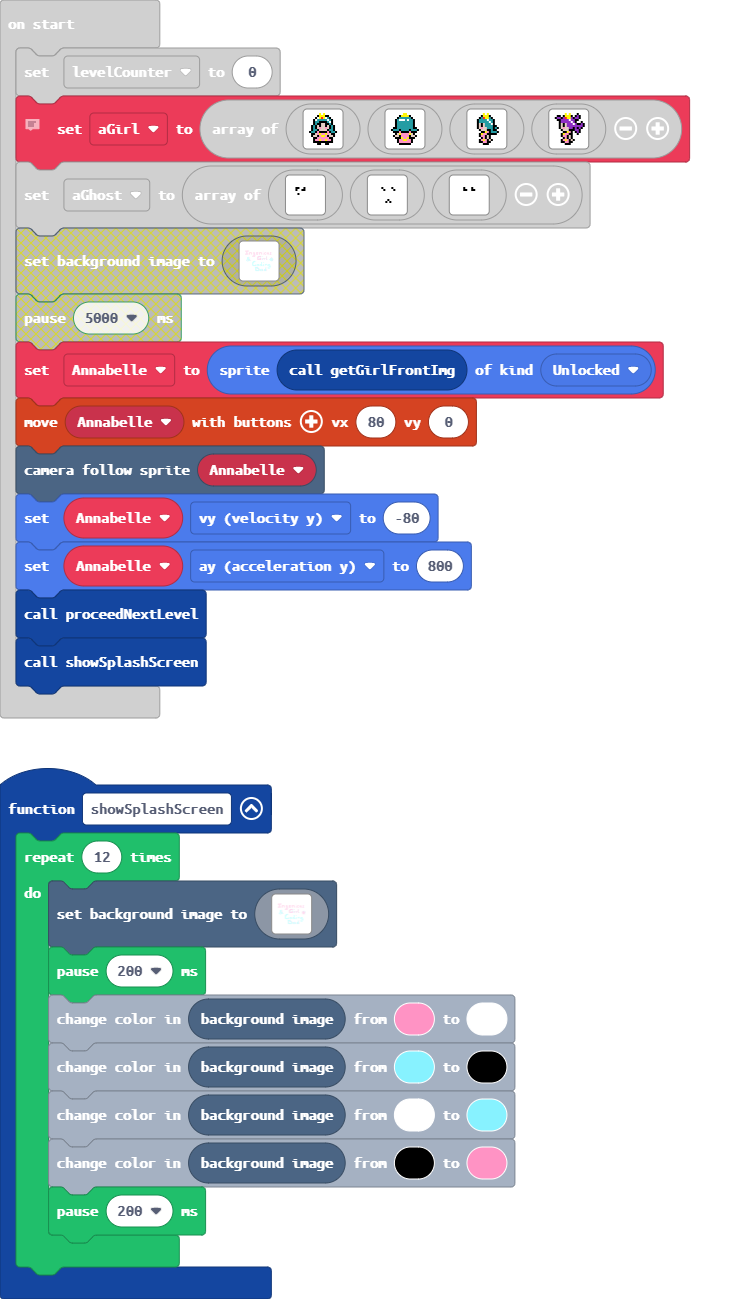
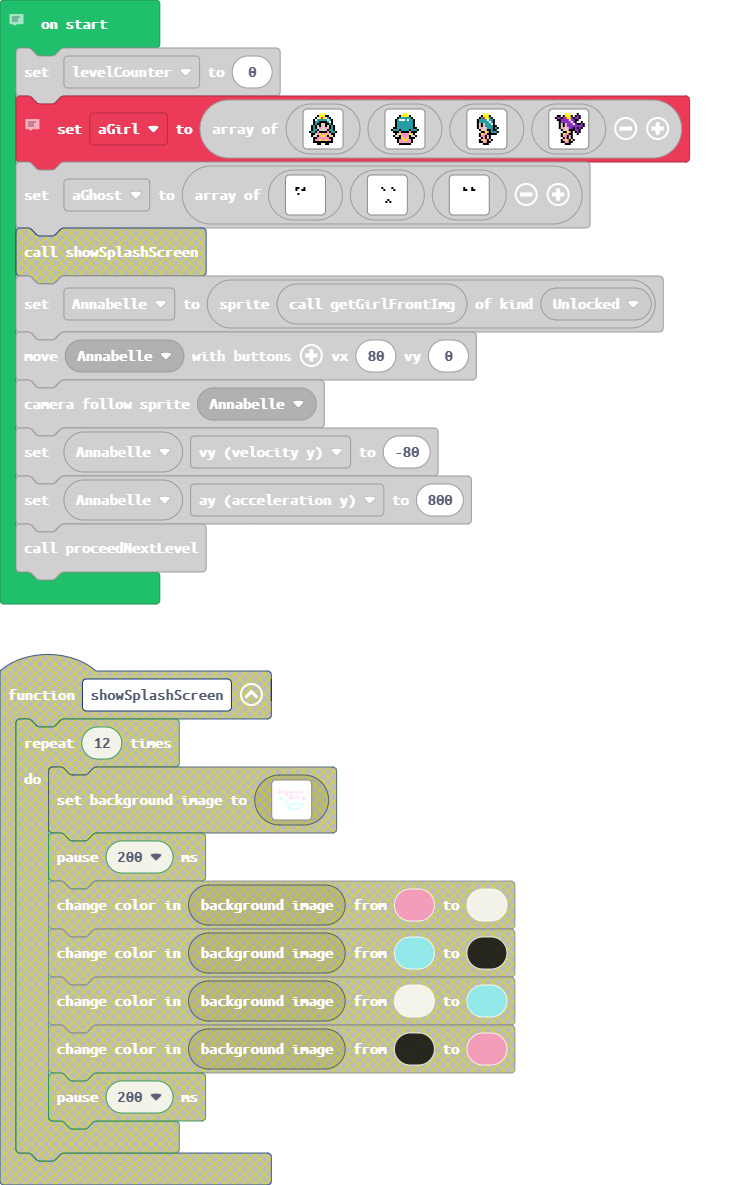
Added splash screen via extension (https://makecode.com/_0zXPeFRcMPzd)

diff --git a/main.ts b/main.ts
@@ -324,138 +324,6 @@ controller.left.onEvent(ControllerButtonEvent.Released, function () {
         onLeftRightReleased()
     }
 })
-function showSplashScreen () {
-    for (let index = 0; index < 12; index++) {
-        scene.setBackgroundImage(img`
-            ................................................................................................................................................................
-            ................................................................................................................................................................
-            ................................................................................................................................................................
-            ................................................................................................................................................................
-            ................................................................................................................................................................
-            ................................................................................................................................................................
-            ................................................................................................................................................................
-            .......................33333....................................................................................................................................
-            ...........33333333333333933....................................................................................................................................
-            ...........33333333333333393.......................................................................333..........................................................
-            ...........33333333333333333.......................................................................333..........................................................
-            ...........33333333333333333.......................................................................333..........................................................
-            ...........33333333333333333....................................................................................................................................
-            .................33333..........................................................................................................................................
-            .................33333..........................................................................................................................................
-            .................33333..........................................................................................................................................
-            .................33333.........333....3333.........................333333333.....333....3333............................................33333...................
-            .................33333.........333..3333333........3333333........33333333333....333..3333333...............33333333.....333...333.....3333333..................
-            .................33333.........3333333333333......333333333.......33333333333....3333333333333.....333.....3333333333....333...333....33333333..................
-            .................33333.........333333333.333......3333333333......3333...3333....333333333.333.....333....33333333333....333...333....3333...3..................
-            .................33333.........3333333...333......3333..3333......33333333333....3333333...333.....333....3333...3333....333...333....333.......................
-            .................33333.........333333....333......333...3333......33333333333....333333....333.....333....333.....333....333...333....333.......................
-            .................33333.........3333......333......333....3333.....3333333333.....3333......333.....333....333.....333....333...333....333333....................
-            ..........333333333333333333...333.......3333.....333....3333.....333............333.......3333....333....333.....333....333...333....3333333...................
-            ..........333333333333333333...333.......3333.....33333.33333.....333............333.......3333....333....3333....333....3333.3333.....3333333..................
-            ..........393333333333333333...333.......3333.....33333333333.....3333...........333.......3333....3333...33333333333....33333333.........3333..................
-            ..........339333333333333333...333........333......3333333333.....333333333......333........333....3333....333333333......3333333....333..3333..................
-            ..........3333333333333........333........333........33333333......333333333.....333........333....3333.....33333333.......33333.....393333333..................
-            .........................................................3333........3333333.........................................................33933333...................
-            ......................................................333333333.......................................................................333333....................
-            ...................................................333333333333.................................................................................................
-            ..................................................3333333333333.................................................................................................
-            .................................................3333333..333...................................................................................................
-            ................................................33333.....333...................................................................................................
-            ...............................................33333.....3333...........999999999999999.........................................................................
-            ...............................................3333.....33333..........3333333333333339.........................................................................
-            ...............................................3333...333333..........33333333333333339....999..................9999............................................
-            ...............................................3933333333333.........333333333333333339...3339.................33339............................................
-            ...............................................339333333333.........3333333333333333339...3339.................33339............................................
-            ........................3333333..................3333333............333333333333333333....333..................33339............................................
-            ......................399999993....................................333333333...................................33339............................................
-            .....................99999999933...................................33333333....................................33339............................................
-            ....................999999999993...................................3333333.....................................33339............................................
-            ....................99999..99993...................................3333339.....99999999........................3333........................999..................
-            ....................9999....9993...................................333333.....333333339........................3339.......................3339..................
-            ....................99933...9993...................................333339.....333333339....999.....999..99999..3339...................999.3339...999............
-            ....................999933..9993...................................333339.....333333339...3339....3339.333339..3339..................333993339..3339............
-            ....................999993399993...................................333339.....333333339...3339....33393333339..3339..................333393339.33339............
-            ....................999999999993...................................3333399....333333339...3339....3333333333...3339..................33333333933333.............
-            .....................9999999999..333...............................3333339999....333339...3339.....33333.......3339...................333333333333..............
-            ....................999999999...9993...............................33333333399993333339...3339......3339.......3339....................3333333333...............
-            ...................99999999933399993...............................33333333333333333339...3339......3339.......3339999.............9999333333333999999..........
-            ..................999999999999399993...............................33333333333333333339...33399.....3339.......3333339............33333333333333333339..........
-            ..................99999.99999999999.................................3333333333333333339...33339.....3339.......3333339............33333333333333333339..........
-            .................99999....999999993..................................33333333333333333....3333......333.........33333.............3333333333333333333...........
-            .................9999......999999933...................................................................................................3333333339...............
-            .................9993......39999999333................................................................................................333333333399..............
-            .................9993....3999999999993...............................................................................................33333333333399.............
-            .................999333399999999999993..............................................................................................33333.3333333399............
-            .................9999999999999...9999..................99999........................................................................3333..3339333339............
-            ..................99999999999.......................9999999999......................................................................333...3339.33339............
-            ...................99999999........................99999999399............................................................................3339..333.............
-            ..................................................999999999939............................................................................333...................
-            .................................................9999999999999..................................................................................................
-            ................................................99999999999999..................................................................................................
-            ................................................99999999999999.............................9999.................................................................
-            ...............................................999999999...................................9999.................................................................
-            ...............................................99999999....................................9999......999........................................................
-            ...............................................9999999.....................................9999......999........................................................
-            ...............................................999999......................................999.......999........................................................
-            ..............................................9999999......................................999..................................................................
-            ..............................................999999.......................................999..................................................................
-            ..............................................999999.......................................999..................................................................
-            ..............................................999999.......................................999..................................................................
-            ..............................................99999........................................999...............999....9999........................................
-            ..............................................99999...................99999999........99999999...............999..9999999......9999999..........................
-            ..............................................99999..................9999999999.....9999999999.......999.....9999999999999....999999999.........................
-            ..............................................99999.................99999999999....99999999999.......999.....999999999.999....9999999999........................
-            ..............................................999999.......999999...99999..9999....99999..9999.......999.....9999999...999....9999..9999........................
-            ..............................................99999999.....999939...9999....999....9999...99999......999.....999999....999....999...9999........................
-            ..............................................999999999...9999399...999.....999....999....99999......999.....9999......999....999....9999.......................
-            ...............................................999999999999999999...9999....999....999....9999999....999.....999.......9999...999....9999.......................
-            ...............................................99999999999999999....99999..9999....9999..99999999....999.....999.......9999...99999.99999.......................
-            ................................................9939999999999999....99999999999....999999999999999...9999....999.......9999...99999999999.......................
-            .................................................99939999999999......999999999.....9999999999.9999...9999....999........999....9999999999.......................
-            ..................................................999999999999........99999999......999999999..999...9999....999........999......99999999.......................
-            .....................................................................................................................................9999.......................
-            ..................................................................................................................................999999999.....................
-            ...............................................................................................................................999999999999.....................
-            ............................................................3333333333333.....................................................9999999999999.....................
-            ...........................................................999999999999933...................................................9999999..999.......................
-            ...........................................................9999999999999933.................................................99999.....999.......................
-            ...........................................................99999999999999933.....................................3333......99999.....9999.......................
-            ...........................................................999999999999999933...................................99993......9999.....99999.......................
-            ...........................................................9999999999999999933..................................99993......9999...999999........................
-            .............................................................999993.99999999933.................................9999.......9399999999999........................
-            .............................................................999993..99999999933................................9993.......993999999999.........................
-            .............................................................999993...99999999933...............................9993.........9999999............................
-            .............................................................999993....99999999933..............................9993............................................
-            .............................................................999993.....99999999933......3333333333.............99933...........................................
-            .............................................................999993......9999999993.....99999999993........3333399993...........................................
-            .............................................................999993.......999999993....9999999999933......99999999993...........................................
-            .............................................................999993........99999993...99999999999993......99999999993...........................................
-            .............................................................999993.........9999993...99999...9999933....999999999993...........................................
-            .............................................................999993..........999993...9999.....999993....9999...99993...........................................
-            .............................................................9999933333333339999993...9993.....999993....9993...99993...........................................
-            .............................................................9999999999999999999993...99933....999993....999333999993...........................................
-            .............................................................9999999999999999999993...9999333399999933...9999999999933..........................................
-            .............................................................999999999999999999999....9999999999999993...9999999999993..........................................
-            ...............................................................999999999999999999.....9999999999.99993....999999999993..........................................
-            ...............................................................99999999999999999.......99999999..9999......9999..9999...........................................
-            ................................................................................................................................................................
-            ................................................................................................................................................................
-            ................................................................................................................................................................
-            ................................................................................................................................................................
-            ................................................................................................................................................................
-            ................................................................................................................................................................
-            ................................................................................................................................................................
-            ................................................................................................................................................................
-            ................................................................................................................................................................
-            `)
-        pause(200)
-        scene.backgroundImage().replace(3, 1)
-        scene.backgroundImage().replace(9, 15)
-        scene.backgroundImage().replace(1, 9)
-        scene.backgroundImage().replace(15, 3)
-        pause(200)
-    }
-}
 function getGirlLeftImg () {
     return aGirl[2].clone()
 }
@@ -528,6 +396,7 @@ scene.onOverlapTile(SpriteKind.Locked, myTiles.tile10, function (sprite, locatio
 function foundExit () {
     return Annabelle.tileKindAt(TileDirection.Center, myTiles.tile12)
 }
+// Added extension to include splash screen: https://makecode.com/_0zXPeFRcMPzd
 let Ghost: Sprite = null
 let CrazyGirl: Sprite = null
 let tmpImg: Image = null
@@ -659,7 +528,6 @@ let aGhost = [img`
     . . . . 1 1 1 . . . 1 1 1 . . . 
     . . . . . . . . . . . . . . . . 
     `]
-showSplashScreen()
 Annabelle = sprites.create(getGirlFrontImg(), SpriteKind.Unlocked)
 controller.moveSprite(Annabelle, 80, 0)
 scene.cameraFollowSprite(Annabelle)
